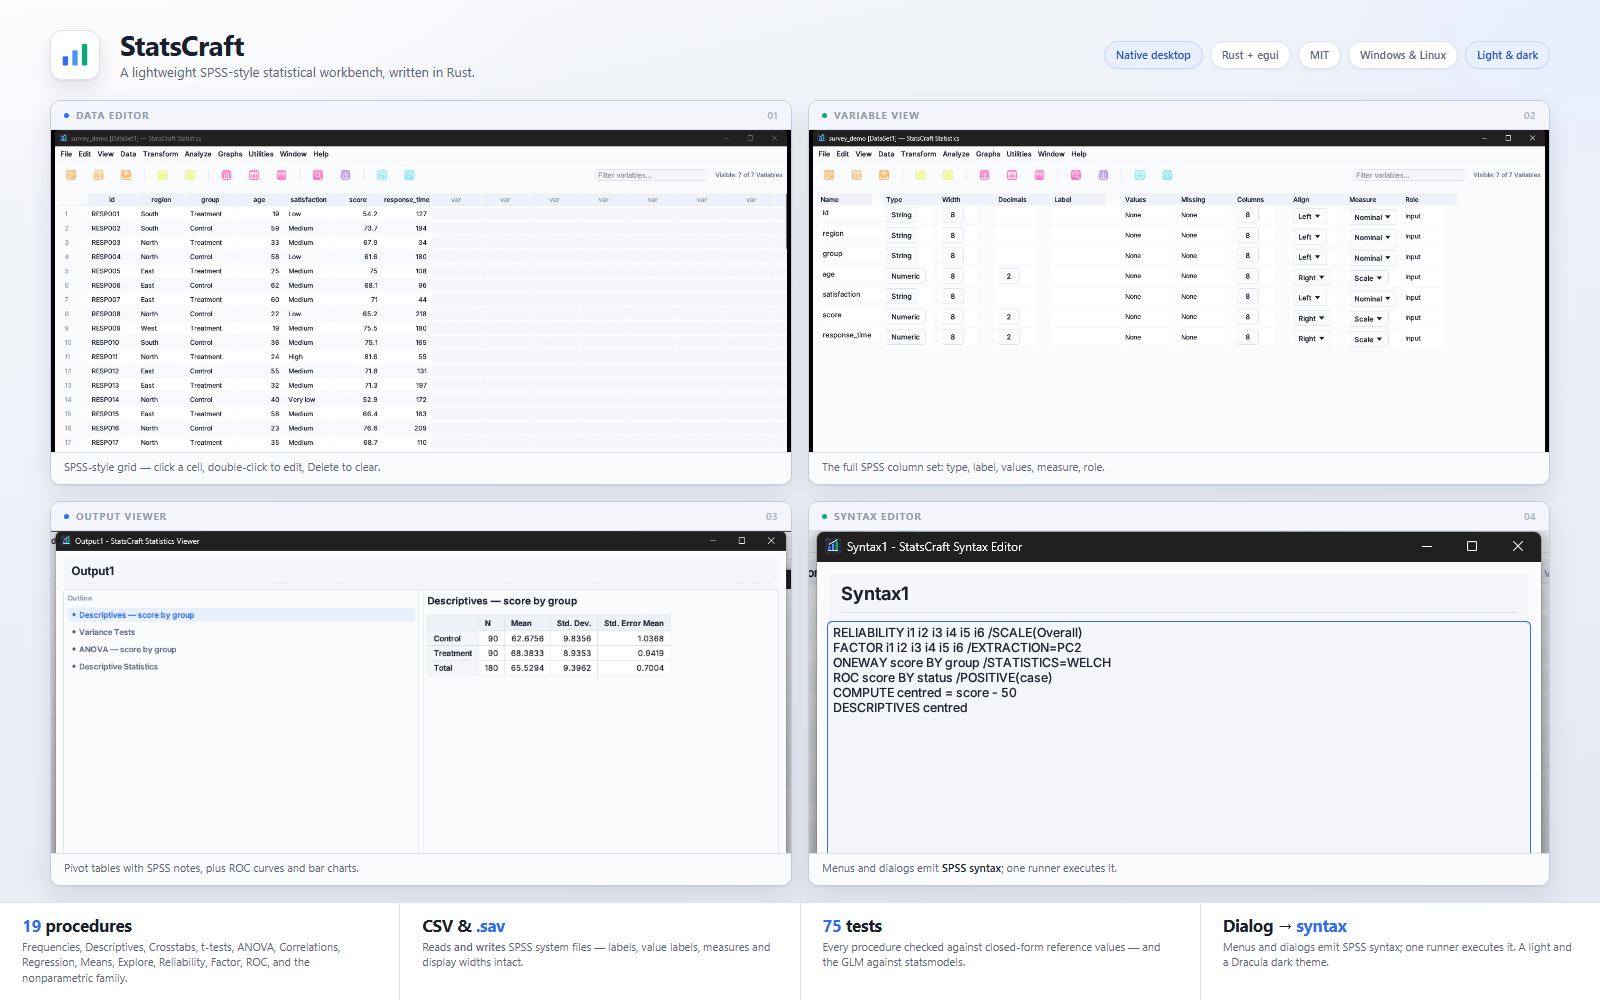
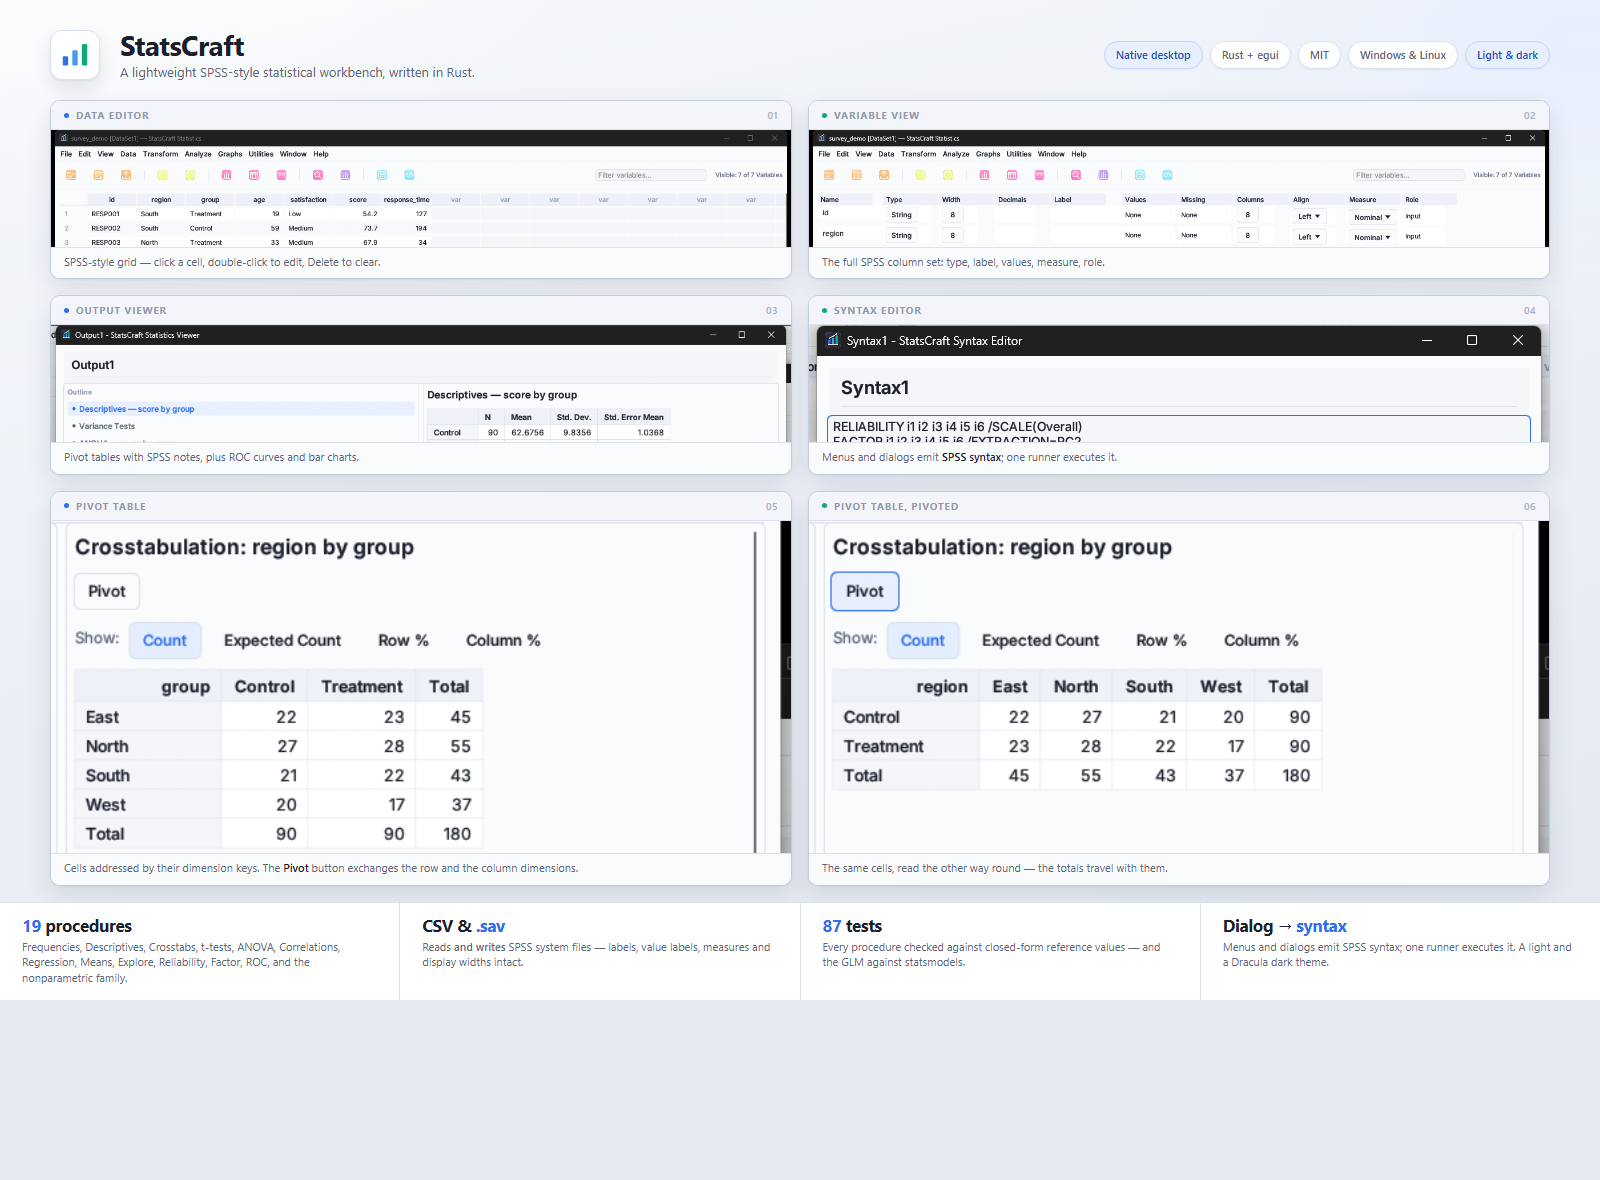
Refresh the showcase with the pivot table and the final artifacts

diff --git a/docs/showcase/showcase.html b/docs/showcase/showcase.html
@@ -147,6 +147,18 @@
       <div class="foot">Menus and dialogs emit <b>SPSS syntax</b>; one runner executes it.</div>
     </div>
 
+    <div class="win">
+      <div class="bar"><span class="dot"></span>Pivot Table<span class="r">05</span></div>
+      <div class="body"><img src="show5_pivot.png" alt="A StatsCraft pivot table"></div>
+      <div class="foot">Cells addressed by their dimension keys. The <b>Pivot</b> button exchanges the row and the column dimensions.</div>
+    </div>
+
+    <div class="win">
+      <div class="bar"><span class="dot t"></span>Pivot Table, pivoted<span class="r">06</span></div>
+      <div class="body"><img src="show6_pivoted.png" alt="The same pivot table, pivoted"></div>
+      <div class="foot">The same cells, read the other way round — the totals travel with them.</div>
+    </div>
+
   </div>
 
   <div class="features">
@@ -159,7 +171,7 @@
       <div class="l">Reads <em>and writes</em> SPSS system files — labels, value labels, measures and display widths intact.</div>
     </div>
     <div class="feat">
-      <div class="k"><span>75</span> tests</div>
+      <div class="k"><span>87</span> tests</div>
       <div class="l">Every procedure checked against closed-form reference values — and the GLM against statsmodels.</div>
     </div>
     <div class="feat">
